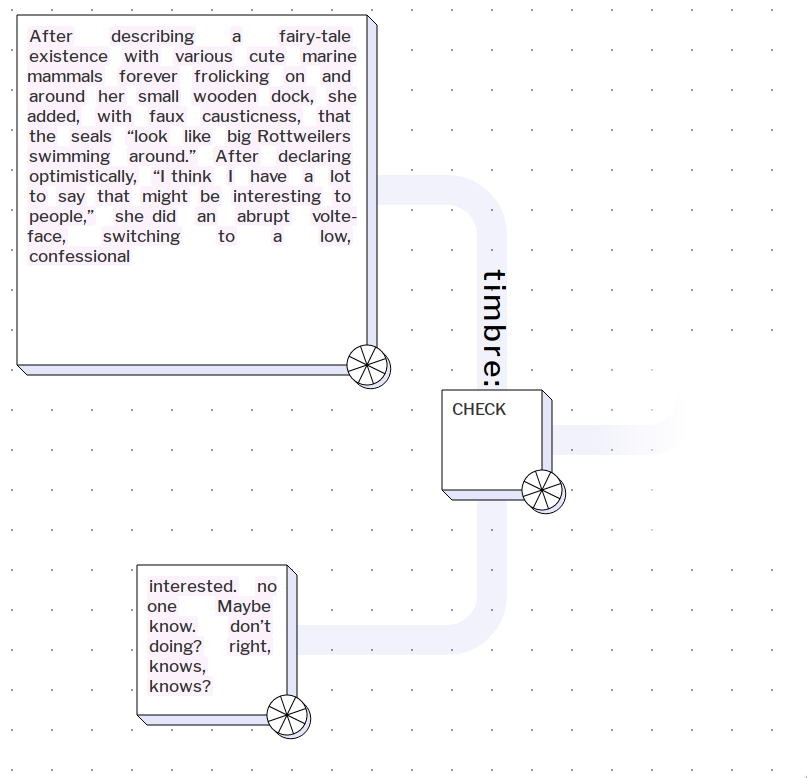
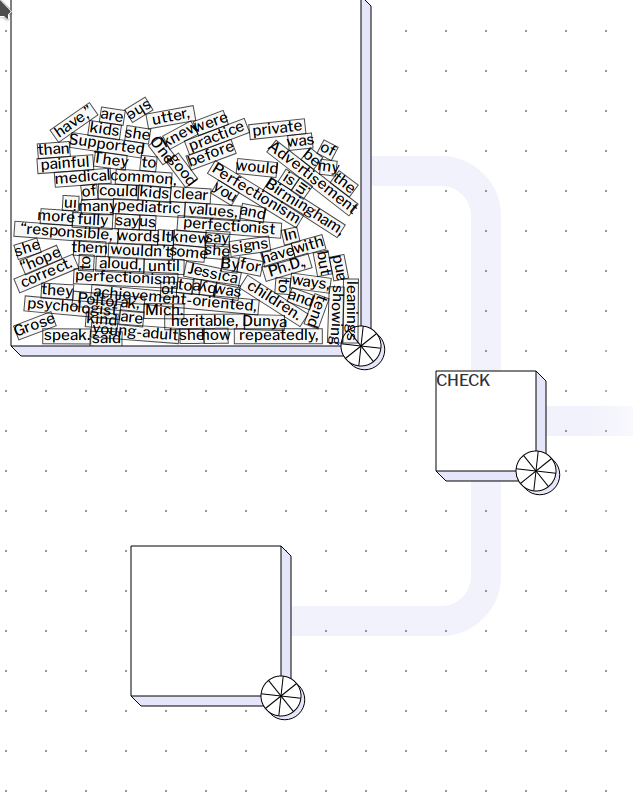
[snapshot]

Changed region(s): [[0.0, 0.0, 0.9005, 0.6787], [0.1501, 0.6787, 0.4803, 0.9563]]

diff --git a/index.tsx b/index.tsx
@@ -1,6 +1,7 @@
 import Two from "two.js";
 import * as React from "react";
 import * as ReactDOMServer from "react-dom/server";
+import * as Matter from "matter-js";
 import { makeConnector, makeBox, makeGradient } from "./src/render";
 
 let elem = document.getElementById("draw-animation");
@@ -19,13 +20,45 @@ think I have a lot to say that might be interesting to people,” she
 did an abrupt volte-face, switching to a low, confessional timbre:
 “Who knows? Who knows, right, what I’m doing? I don’t know. Maybe no
 one will be interested.`;
-let words = text.split(" ");
+
+text = ` 
+Advertisement
+Supported by
+Perfectionism is common, heritable, and painful for many children.
+By Jessica Grose
+One of my kids was showing signs of perfectionism before she could fully speak. It was clear to us she knew how to say more words than she would utter, but she wouldn’t say them aloud, or repeatedly, until she knew they were correct.
+In some ways, kids with perfectionist leanings are the kind you “hope to have,” said Dunya Poltorak, Ph.D., a pediatric and young-adult medical psychologist in private practice in Birmingham, Mich. They tend to be “responsible, achievement-oriented, have good values, and are very principled,” she said.
+In quarantine, however, since I have become so much more intimately involved in her learning, I see how much pain her trying to be perfect causes her. If she gets two answers wrong on a math worksheet, it’s all she can talk about — not the 18 answers she got right. And that “failure” in her mind will often metastasize into a meltdown.
+She had a wonderful teacher this year, who noticed her perfectionist tendencies, and was helping her work through it. My kid would come home and tell me, “You can’t learn if you don’t make mistakes!” When I try to tell her the same thing she rolls her eyes. I have even been doing all the expert-approved tips I wrote about in January to get my kid more comfortable with failure, like asking her questions about her process, praising her focus, modeling persistence, telling her about times in my life when I failed and it was OK. But nothing seems to help.
+Since our new normal isn’t going back to the old normal any time soon, I talked to a child psychologist, a research psychologist who focuses on perfectionism, and an educator, to figure out how best to support children who strive to be perfect. As always, if you’re concerned about your child’s mental health, please reach out to your pediatrician as a first step in getting help.
+Perfectionism is common, and it can have many origins. Perfectionism is heritable, said Gordon Flett, Ph.D., the director of the LaMarsh Centre for Child and Youth Research at York University, who has been researching perfectionism in children and adults for decades. (I’m a Type-A nut job, so it’s not really surprising my kid is hard on herself.) Some kids may show signs of perfectionism as young as 3 or 4, he said.
+But genetics aren’t the whole story. Research has shown that perfectionism has increased among children and teenagers over the past few decades, and studies show that by the time children reach adolescence, between 25 and 30 percent of them have “maladaptive perfectionism,” or striving for unrealistic perfection to the point of causing them pain. A greater number have less destructive forms of perfectionism. If left unchecked, perfectionism is a risk factor for clinical depression and anxiety.
+Family pressure to achieve can affect children, but so can social influences outside the home. If your kid is surrounded by other very competitive children in a high-pressure school environment, they may feel “shame and embarrassment if they weren’t keeping up with the pack,” Dr. Flett said. Social media may also be exacerbating perfectionism in kids. “We see now what happens when someone famous or infamous makes a mistake,” he said — thousands of people are ready to pounce on them. “The consequences of making a mistake seem amplified.”
+Know the signs of problematic perfectionism. One sign your child’s perfectionist tendencies may be overwhelming is that your kid becomes excessively self-deprecating, Dr. Poltorak said. They may say things like, “I’m not worthy. I’m so stupid. How did I mess up? I hate myself. I can’t do anything right. Those self-deprecating comments are very worrisome,” she said.
+Another sign is that they have trouble getting over perceived failure, Dr. Poltorak said. “It’s typical for a child to have a frustrated response to something that didn’t go their way. The problem is if it’s happening a lot and they can’t move on from it,” she said.
+A third sign is that they shy away from trying new things you know they want to do, said Marisa Porges, the head of the Baldwin School in Bryn Mawr, Pa., and the author of the forthcoming book “What Girls Need: How to Raise Bold, Courageous, and Resilient Women.” They think trying a new sport, or even the next level of assignment, opens them up for criticism, she said.
+A fourth sign is a lack of ability to be happy or satisfied with accomplishments, Dr. Flett said, because they’re so busy picking their triumphs apart.
+How you can help. If your child is in the middle of a spiral to be perfect, try to just be present, Dr. Poltorak said. “Their feelings are so big in that moment, if you try to jump in, then they feel unheard,” she said. If parents start escalating, they feel more worthless and ashamed of themselves. You know your child best: If they respond to physical touch, maybe just hold them or stroke their hair. If they don’t, then just sit near them and listen.
+Once they’ve calmed down, you can tell them that what they perceive as their failure is not their fault; it could have happened to anyone for any reason, Dr. Poltorak said. Then after you’ve had the conversation, move on. You don’t have to come back to it, because that may make it feel bigger than it needs to be.
+Porges suggested telling stories about times you made mistakes as a child or times you were afraid to do something, and how you moved on from those moments. “It’s about being vulnerable with our kids in ways we don’t typically think to be,” she said.
+Finally, if you’re concerned that you are putting pressure on your children to achieve, and that is exacerbating their perfectionist tendencies, try to think back to their first weeks of life, Dr. Flett said. “Did you need them to do anything but be there?”
+P.S. Click here to read all NYT Parenting coverage on coronavirus. Follow us on Instagram @NYTParenting. Join us on Facebook. Find us on Twitter for the latest updates. Read last week’s newsletter, about parental burnout.
+P.P.S. Today’s One Thing comes from Stephanie Mayer, a mom in Weehawken, N.J., who started weekly “camp-outs” for her kids. She blows up an air mattress in the living room, then they watch a movie and make shadow puppets. “It gives them something to look forward to all week, and something for us to hold over their heads,” she said. “A win-win.”
+Learning how to fail is one way to help kids manage their perfectionist tendencies.
+For those with older children, this piece from Jane Adams, a social psychologist, writer and coach, about dealing with college students with perfectionism, is essential reading.
+Indecision may actually be a sign of perfectionism — learn how to identify and manage it, for yourself and your kids.
+Parenting can be a grind. Let’s celebrate the tiny victories.
+I was fed up with trying to figure out which tiny socks belonged to my 1-year-old vs. my 4-year-old so now the baby only has striped socks and the older kid has solid-colored socks. The older kid’s socks are handed down to her cousin. — Janice A. Clear, Brooklyn
+If you want a chance to get your Tiny Victory published, find us on Instagram @NYTparenting and use the hashtag #tinyvictories; email us; or enter your Tiny Victory at the bottom of this page. Include your full name and location. Tiny Victories may be edited for clarity and style. Your name, location and comments may be published, but your contact information will not. By submitting to us, you agree that you have read, understand and accept the Reader Submission Terms in relation to all of the content and other information you send to us.
+Advertisement
+;`;
+let words = text.split(/(\s+)/).filter(w => w.trim().length > 0);
 
 let p1 = new Two.Vector(200, 200);
 let p2 = new Two.Vector(500, 450);
 let p3 = new Two.Vector(220, 650);
 let p4 = new Two.Vector(700, 450);
-let c1 = makeConnector(p1, p2, "1");
+let c1 = makeConnector(p1, p2, "1", true);
 let c2 = makeConnector(p2, p3, "2", true);
 let c3 = makeConnector(p2, p4, "3");
 
@@ -39,7 +72,7 @@ function formatWords(words: Array<string>) {
     .map(w => `<span class="word-span">${w}</span>&nbsp;`)
     .join(" ")}</p>`;
 }
-b1.setText(formatWords(words));
+// b1.setText(formatWords(words));
 
 b2.setText("CHECK");
 // b3.setText(" ");
@@ -47,7 +80,7 @@ b2.setText("CHECK");
 let destinationWords: Array<string> = [];
 
 function moveWord() {
-  let wordToMove = words.pop();
+  let wordToMove = words.shift();
 
   b1.setText(formatWords(words));
 
@@ -66,7 +99,7 @@ function moveWord() {
 
     .then(moveWord);
 }
-moveWord();
+// moveWord();
 makeGradient(p4.x, p4.y, 200);
 // let half = new Two.Vector(100, 100);
 
@@ -106,3 +139,104 @@ two
     // group.rotation += t * 4 * Math.PI;
   })
   .play(); // Finally, start the animation loop
+
+// module aliases
+var Engine = Matter.Engine,
+  Render = Matter.Render,
+  World = Matter.World,
+  Bodies = Matter.Bodies;
+
+// create an engine
+var engine = Engine.create({
+  positionIterations: 10,
+  constraintIterations: 10,
+  enableSleeping: true
+});
+
+// create a renderer
+let el = document.getElementById("contenta");
+console.log(el.getBoundingClientRect().width);
+console.log(el.getBoundingClientRect().height);
+var render = Render.create({
+  element: el,
+  engine: engine,
+  options: {
+    width: 350,
+    height: 350,
+    wireframes: false,
+    background: "transparent"
+    // enableSleeping: true
+  }
+});
+
+// create two boxes and a ground
+
+words = words.slice(0, 100);
+let boxes = words.map(word => {
+  let w = word.length * 8;
+  let h = 15;
+  let body = Bodies.rectangle(
+    100 + Math.random() * 100,
+    -Math.random() * 800,
+    w,
+    h,
+    {
+      fillStyle: "red",
+      strokeStyle: "blue",
+      lineWidth: 3
+    }
+  );
+  body._width = w;
+  body._height = h;
+
+  // body.setDensity(9);
+  // body.friction = 0.5;
+  body.frictionAir = 0.1;
+  body.name = word;
+  // body.frictionStatic = 0.9;
+  // body.resitution = 0.8;
+
+  return body;
+});
+
+var ground = Bodies.rectangle(200, 350, 400, 6, { isStatic: true });
+var leftWall = Bodies.rectangle(0, 200, 6, 400, { isStatic: true });
+var rightWall = Bodies.rectangle(350, 200, 6, 400, { isStatic: true });
+
+// add all of the bodies to the world
+World.add(engine.world, [ground, leftWall, rightWall, ...boxes]);
+
+// run the engine
+Engine.run(engine);
+
+// run the renderer
+// Render.run(render);
+
+let radToDeg = r => r * (180 / Math.PI);
+
+Matter.Events.on(engine, "afterUpdate", () => {
+  const bodies = boxes;
+
+  const paths = bodies.map((body, index) => {
+    const { vertices, position, angle } = body;
+    const pathData = `M ${body._width * -0.5} ${body._height * -0.5} l ${
+      body._width
+    } 0 l 0 ${body._height} l ${-body._width} 0 z`;
+    const style = `fill: black; fill-opacity: 0.03; stroke: black; stroke-width: 1px; stroke-opacity: 0.7`;
+    const degrees = radToDeg(angle);
+    const transform = `translate(${position.x}, ${position.y}) rotate(${degrees})`;
+    const textStyle = `font-size: 15px; alignment-baseline: middle; text-anchor: middle;`;
+    let path = null;
+    path = `<path d="${pathData}" style="${style}"></path>`;
+    return `
+      <g transform="${transform}" >
+        ${path}
+        <text style="${textStyle}">${body.name}</text>
+      </g>
+    `;
+  });
+  const style = `height: ${height}px; width: ${width}px; shape-rendering: geometricPrecision;`;
+  b1.setText(`
+    <svg style="${style}">${paths}</svg>
+  `);
+});

diff --git a/src/render.tsx b/src/render.tsx
@@ -3,7 +3,7 @@ import * as React from "react";
 import * as ReactDOMServer from "react-dom/server";
 import * as morphdom from "morphdom";
 let morph = morphdom.default;
-console.log(morph);
+
 function makeBox(pos, size: number, id: string) {
   let two = window.two;
   let rect1 = two.makeRectangle(size / 2, size / 2, size, size);
@@ -74,10 +74,8 @@ function makeBox(pos, size: number, id: string) {
           y2={`${r * 0.8}`}
         ></line>
       </svg>
-      <foreignobject x="10" y="10" width={size - 20} height={size - 20}>
-        <div id={contentId}>
-          <h1>{id}</h1>
-        </div>
+      <foreignobject x="0" y="0" width={size} height={size}>
+        <div id={contentId}>{/* <h1>{id}</h1> */}</div>
       </foreignobject>
     </React.Fragment>
   );

diff --git a/main.css b/main.css
@@ -62,13 +62,27 @@ h1 {
     transform: rotate(360deg);
   }
 }
-
+foreignObject > div {
+  margin-bottom: 10px;
+  height: 100%;
+}
 .word-bank {
-  text-align: justify;
+  /* text-align: justify; */
+  padding: 10px 0px 10px 10px;
+  margin-right: 10px;
   font-size: 17px;
+  /* word-wrap: no-wrap; */
   margin-top: 1px;
+
+  /* display: flex; */
+  /* justify-content: space-between; */
+  /* align-items: center; */
+  /* flex-wrap: wrap; */
+  height: 100%;
+  overflow-y: scroll;
 }
 .word-span {
+  /* position: absolute; */
   background-color: rgba(200, 0, 200, 0.05);
   /* border: 1px solid rgba(200, 0, 200, 0.5); */
   border-radius: 3px;
